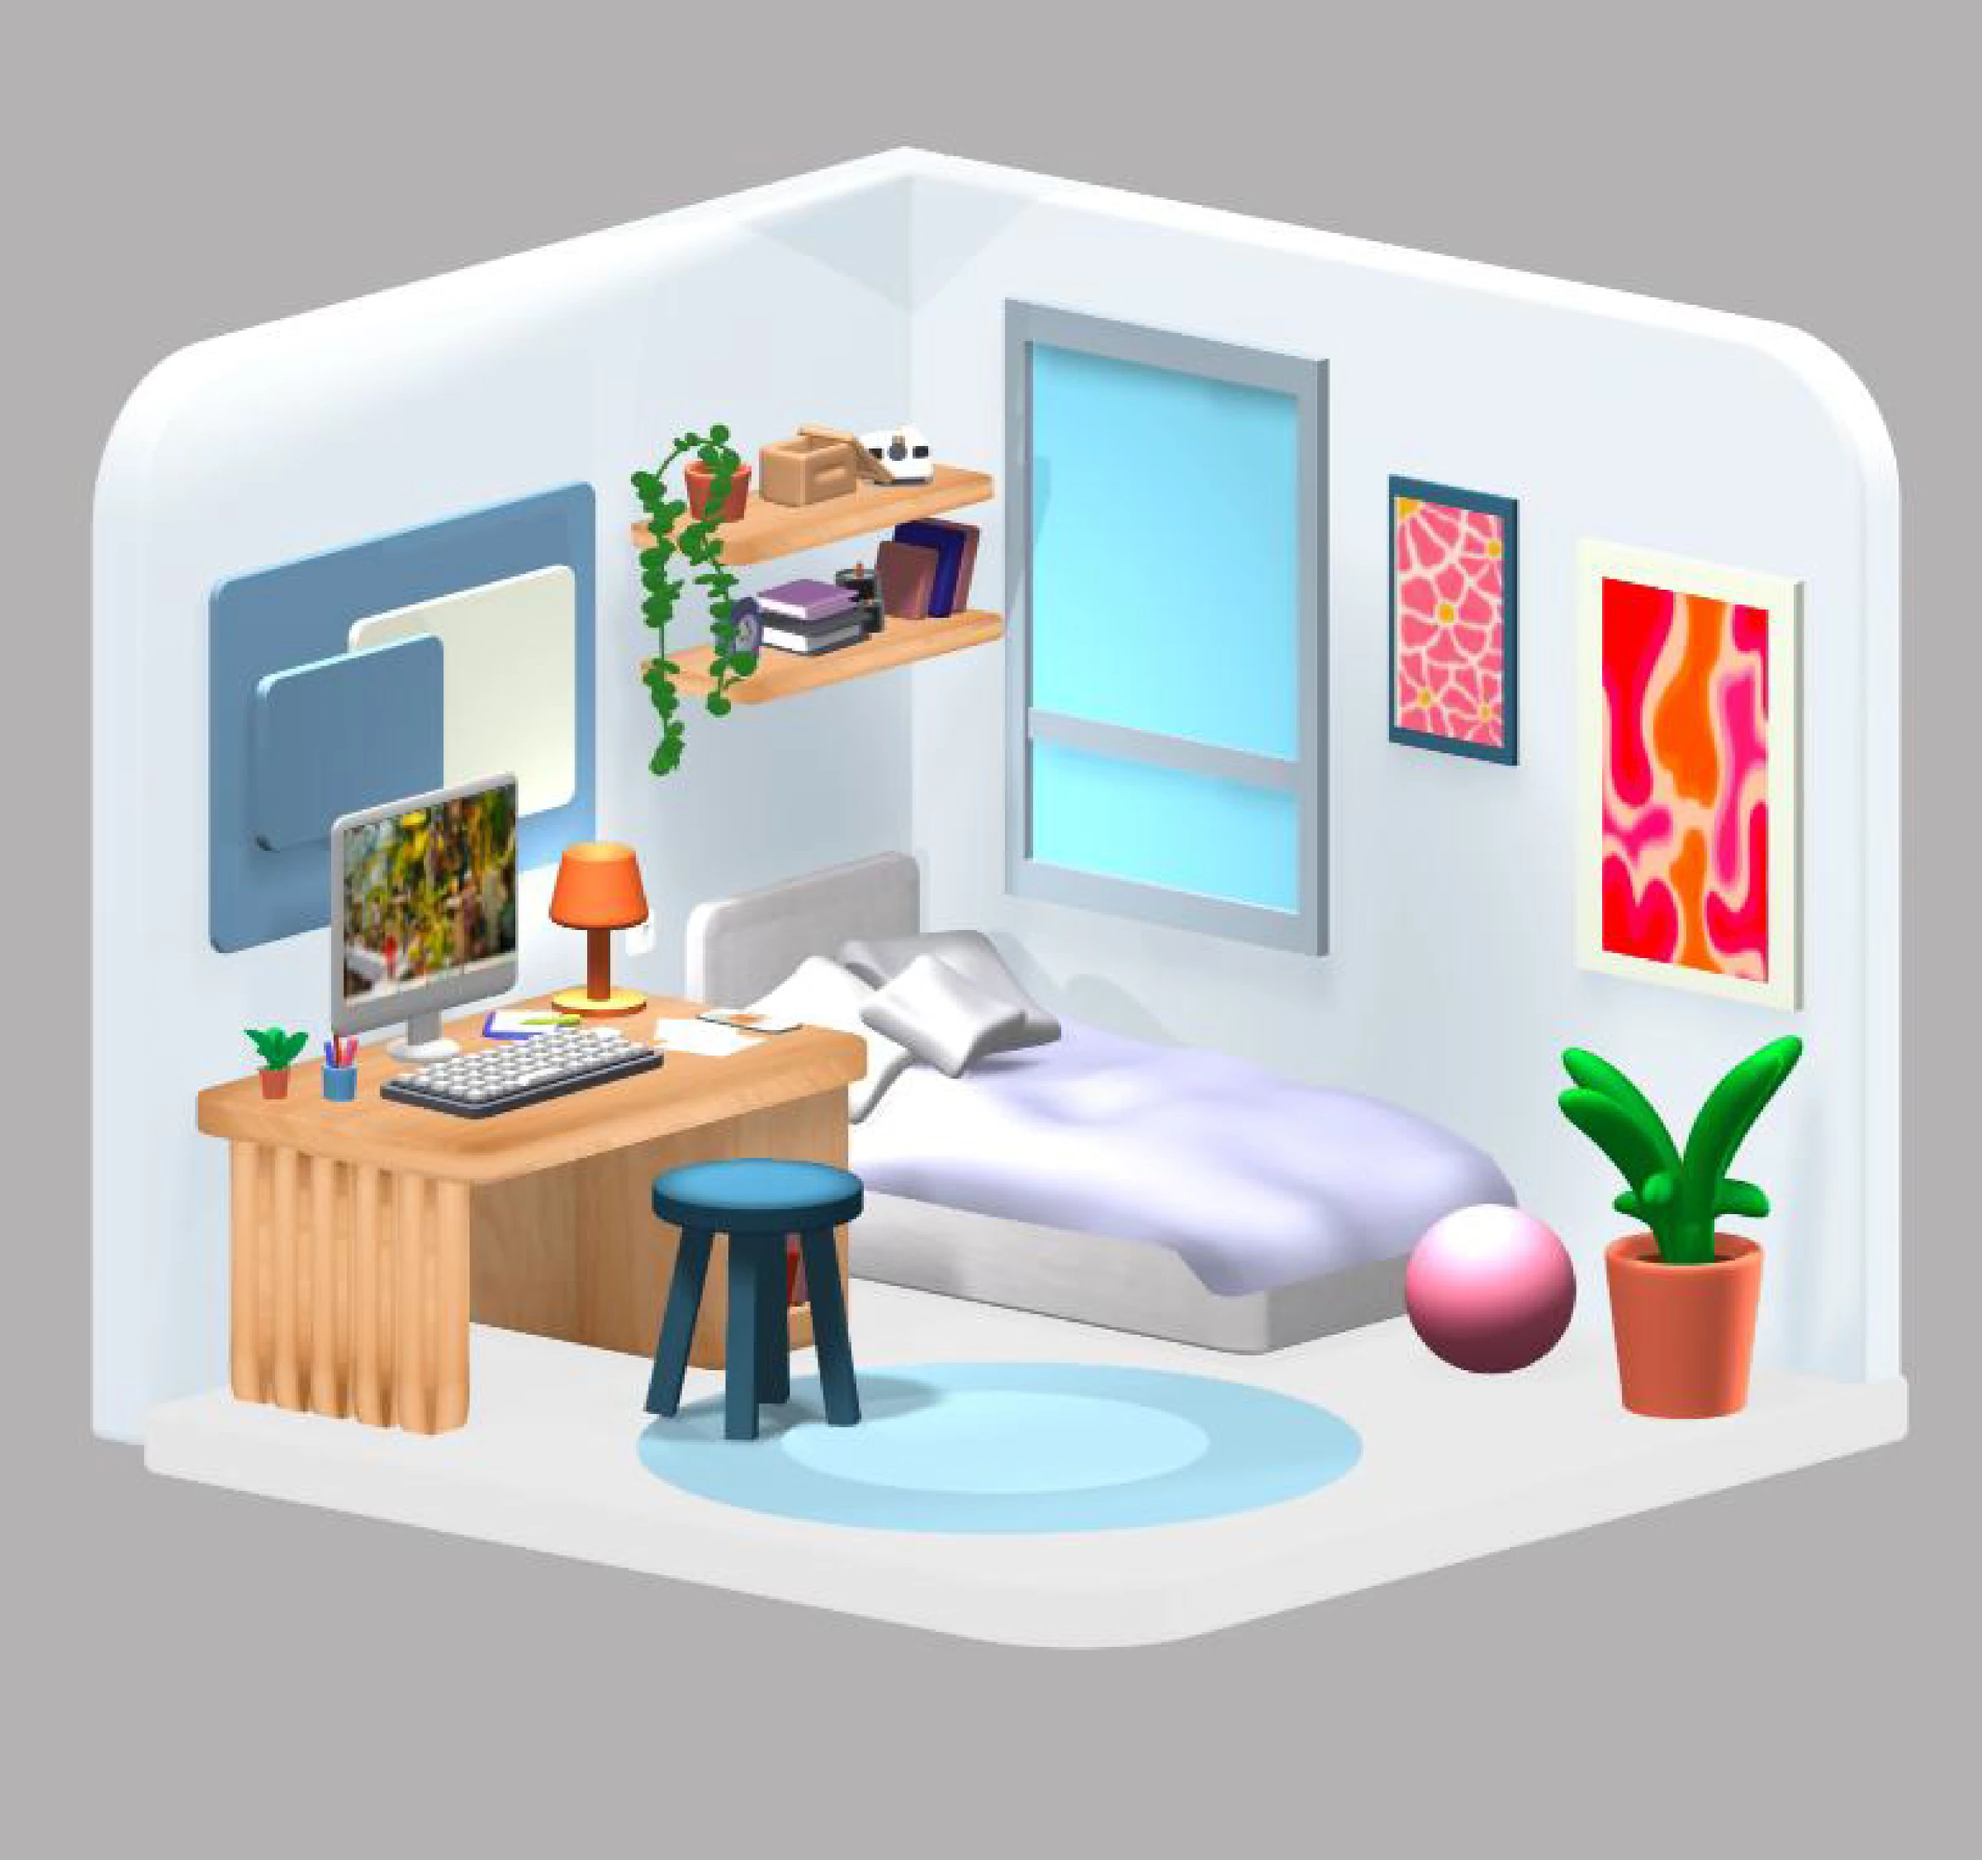
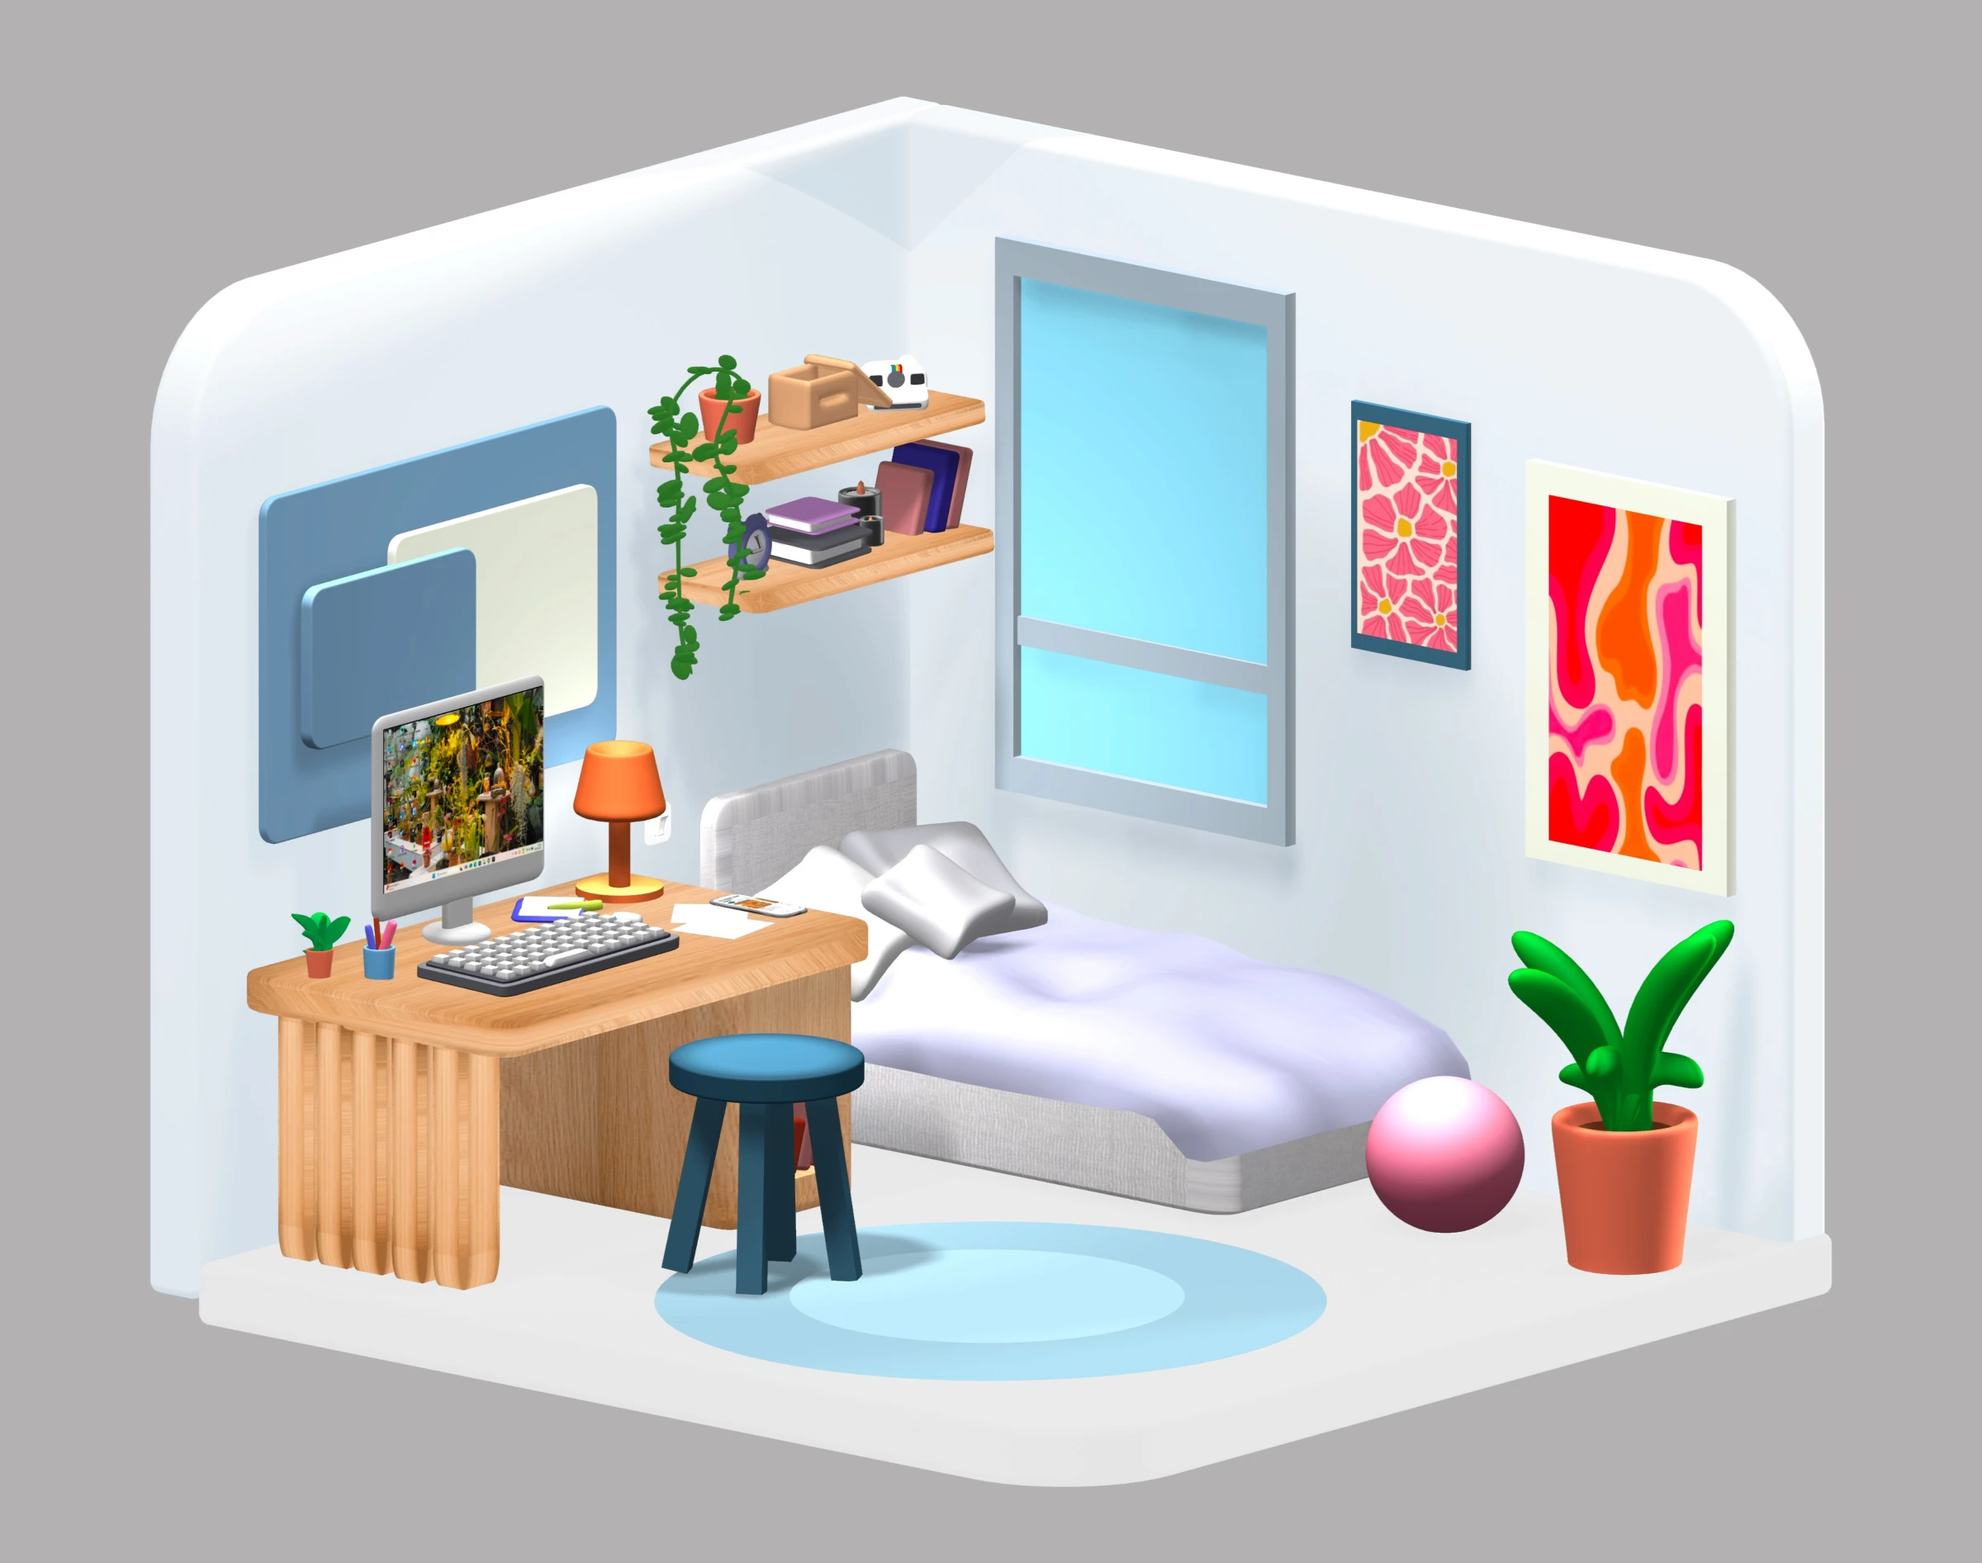
Laboratoire : rendus HD de la chambre et du clavier depuis Spline (clavier vu de trois quarts dessus)

diff --git a/laboratoire.html b/laboratoire.html
@@ -61,7 +61,7 @@
     </div>
     <div class="lab-grid">
       <figure class="lab-item" data-cat="3d">
-        <button class="shot tint"><img src="assets/img/labo-room.webp?v=202611031959" alt="Chambre isométrique modélisée en 3D" loading="lazy"></button>
+        <button class="shot tint"><img src="assets/img/labo-room.webp?v=202611041755" alt="Chambre isométrique modélisée en 3D" loading="lazy"></button>
         <figcaption><span>Chambre isométrique</span><em>3D · Spline</em> <button type="button" class="spline-open" data-spline="https://prod.spline.design/yiJeR2hXQ76KMxPp/scene.splinecode" data-title="Chambre isométrique en 3D">Voir en 3D ↻</button></figcaption>
       </figure>
       <figure class="lab-item" data-cat="3d">
@@ -89,7 +89,7 @@
         <figcaption><span>Planche de végétation</span><em>Illustration</em></figcaption>
       </figure>
       <figure class="lab-item" data-cat="3d">
-        <button class="shot grey"><img src="assets/img/labo-clavier.webp?v=202611041741" alt="Mini clavier modélisé en 3D" loading="lazy"></button>
+        <button class="shot grey"><img src="assets/img/labo-clavier.webp?v=202611041755" alt="Mini clavier modélisé en 3D" loading="lazy"></button>
         <figcaption><span>Mini clavier</span><em>3D · Spline</em> <button type="button" class="spline-open" data-spline="https://prod.spline.design/KxZ-mAGD4YWldTHx/scene.splinecode" data-title="Mini clavier en 3D">Voir en 3D ↻</button></figcaption>
       </figure>
       <figure class="lab-item" data-cat="3d">

diff --git a/index.html b/index.html
@@ -116,12 +116,12 @@
           </a>
         </li>
         <li class="reveal">
-          <a class="work" href="laboratoire.html" data-peek="assets/img/labo-room.webp?v=202611031959">
+          <a class="work" href="laboratoire.html" data-peek="assets/img/labo-room.webp?v=202611041755">
             <span class="work-num">05</span>
             <span class="work-title">Le Laboratoire</span>
             <span class="work-meta">3D · Illustration · Branding</span>
             <span class="work-year">En cours</span>
-            <img class="work-thumb" src="assets/img/labo-room.webp?v=202611031959" alt="" loading="lazy">
+            <img class="work-thumb" src="assets/img/labo-room.webp?v=202611041755" alt="" loading="lazy">
           </a>
         </li>
       </ol>

diff --git a/decathlon.html b/decathlon.html
@@ -200,7 +200,7 @@
 
     <a class="next" href="laboratoire.html">
       <div><p class="eyebrow">Projet suivant</p><span class="display">Le Laboratoire</span></div>
-      <span class="inline-img"><img src="assets/img/labo-room.webp?v=202611031959" alt=""></span>
+      <span class="inline-img"><img src="assets/img/labo-room.webp?v=202611041755" alt=""></span>
     </a>
   </div>
 </main>
